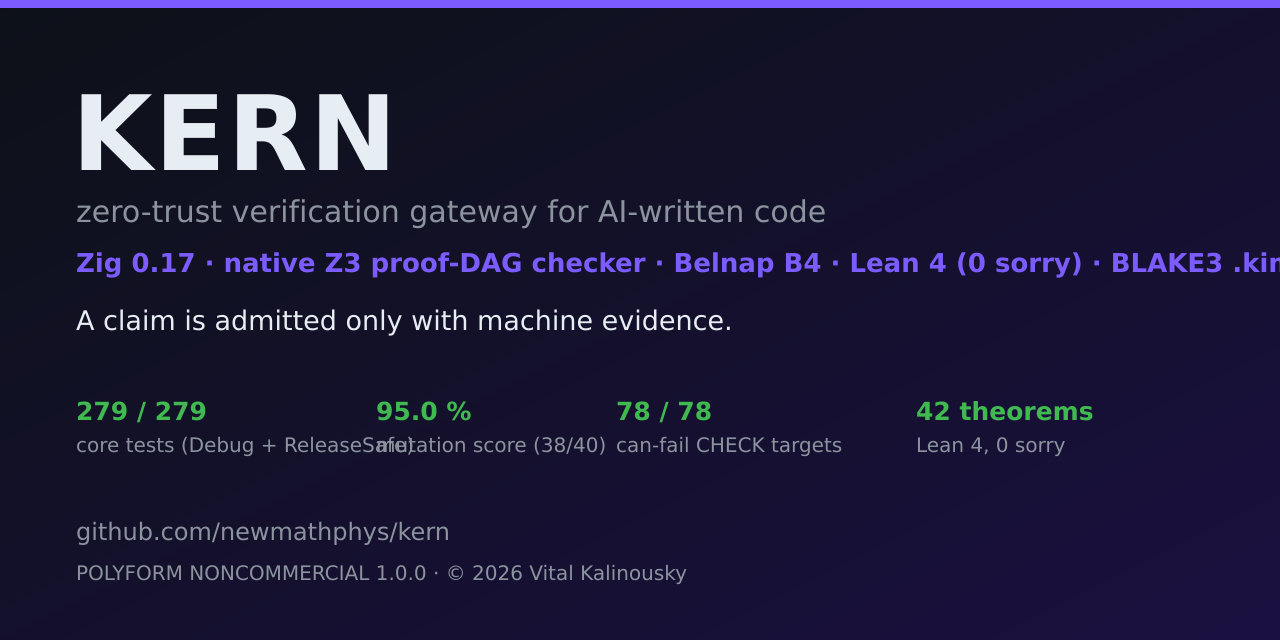
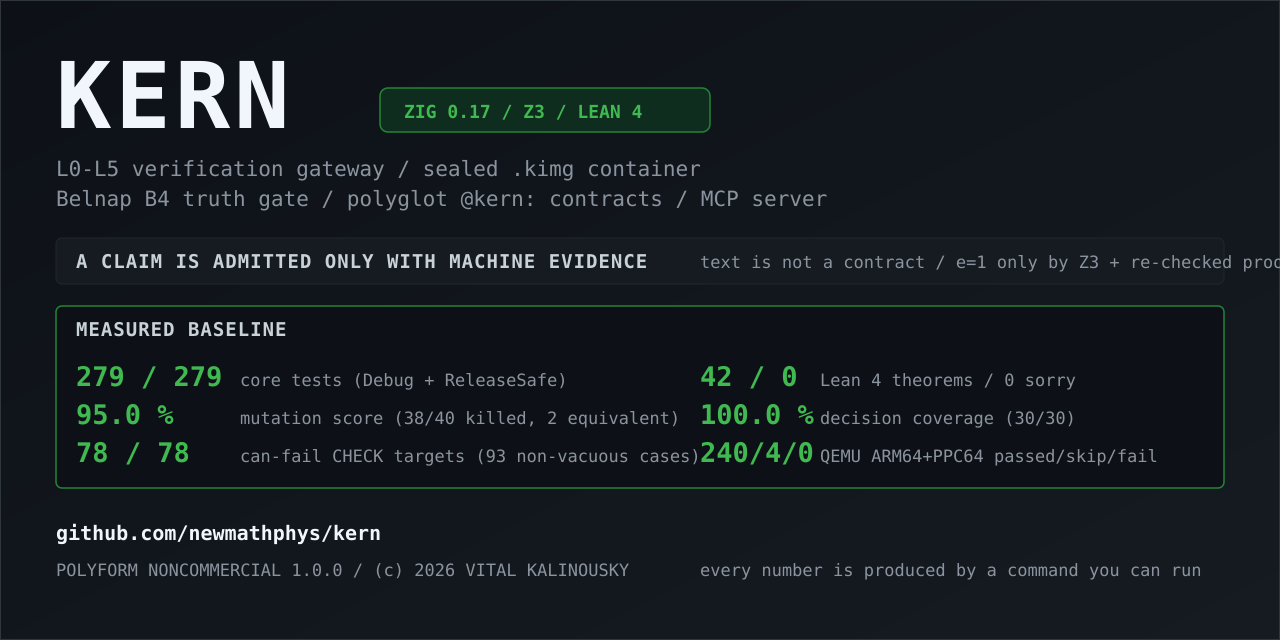
Сайт в стиле нашего SVG-баннера (+ social preview в той же палитре)
Единая визуальная идентичность: лендинг, баннер и карточка соцсетей — одна палитра и
одна типографика (из docs/kern-architecture.svg).

1) docs/index.html переписан в стиле SVG:
   - моно-шрифт везде (ui-monospace, SFMono-Regular, Menlo, Monaco, Consolas);
   - палитра ровно из баннера: фон-градиент #0d1117 -> #161b22, панели #0d1117 с рамкой
     #30363d, внутренние карточки #161b22/#21262d, зелёный акцент #3fb950, тёмно-зелёный
     #238636, зелёный фон #0f2d1e, текст #f0f6fc/#c9d1d9/#8b949e/#6e7681 (лиловый #7c5cff удалён);
   - хедер как в баннере: заголовок KERN, бейдж-пилюля «ZIG 0.17 / Z3 / LEAN 4», подписи sub;
   - ВСТРОЕН наш баннер (docs/kern-architecture.svg) как hero-картинка;
   - таблица чисел заменена на панель «MEASURED BASELINE» в стиле SVG (val зелёный моно + lbl серый);
   - секции-панели: What it is / Quickstart (с проверкой sha256) / Four traps / MCP+CI / Honest status.
2) docs/social-preview.svg перерисован в той же палитре (зелёный акцент, моно-шрифт,
   панель MEASURED BASELINE, пилюля ZIG 0.17 / Z3 / LEAN 4) и пересобран в PNG 1280x640.

SEO/OG/JSON-LD сохранены. Проверено: HTML парсится, палитра SVG присутствует, лиловый удалён,
баннер на месте (svg-check: «ГЕОМЕТРИЯ КОРРЕКТНА, 27 подписей»), аттестат пересобран и валиден,
5 гейтов rc=0.

diff --git a/docs/index.html b/docs/index.html
@@ -4,12 +4,12 @@
 <meta charset="utf-8">
 <meta name="viewport" content="width=device-width, initial-scale=1">
 <title>KERN — zero-trust verification gateway for AI-written code (Zig + Z3 + Lean 4)</title>
-<meta name="description" content="KERN is a zero-trust L0–L5 verification gateway in Zig 0.17: a native Z3 proof-DAG checker, Belnap B4 logic, 42 Lean 4 theorems (0 sorry), 8-lane SIMD BLAKE3 .kimg containers, contract checking for Python/Zig/C/Rust and an MCP server for AI agents.">
+<meta name="description" content="KERN is a zero-trust L0–L5 verification gateway in Zig 0.17: a native Z3 proof-DAG checker, Belnap B4 logic, 42 Lean 4 theorems (0 sorry), 8-lane SIMD BLAKE3 .kimg containers, polyglot contract checking and an MCP server for AI agents.">
 <meta name="keywords" content="formal verification, Z3, SMT, Lean 4, Zig, Belnap logic, AI safety, mutation testing, BLAKE3, proof checker, MCP server, static analysis">
 <link rel="canonical" href="https://newmathphys.github.io/kern/">
 <meta property="og:type" content="website">
 <meta property="og:title" content="KERN — zero-trust verification gateway (Zig + Z3 + Lean 4)">
-<meta property="og:description" content="A claim is admitted only with machine evidence. 279/279 core tests, 95.0% mutation score, 78/78 can-fail targets, 42 Lean 4 theorems (0 sorry).">
+<meta property="og:description" content="A claim is admitted only with machine evidence. 279/279 core tests · 95.0% mutation score · 78/78 can-fail targets · 42 Lean 4 theorems (0 sorry).">
 <meta property="og:url" content="https://newmathphys.github.io/kern/">
 <meta property="og:image" content="https://newmathphys.github.io/kern/social-preview.png">
 <meta name="twitter:card" content="summary_large_image">
@@ -18,9 +18,8 @@
 <meta name="twitter:image" content="https://newmathphys.github.io/kern/social-preview.png">
 <script type="application/ld+json">
 {"@context":"https://schema.org","@type":"SoftwareApplication",
- "name":"KERN","alternateName":"KERN verification gateway",
- "applicationCategory":"DeveloperApplication","operatingSystem":"Linux, macOS",
- "programmingLanguage":["Zig","Python","Lean"],
+ "name":"KERN","applicationCategory":"DeveloperApplication",
+ "operatingSystem":"Linux, macOS","programmingLanguage":["Zig","Python","Lean"],
  "description":"Zero-trust L0-L5 verification gateway: native Z3 proof-DAG checker, Belnap B4 logic, Lean 4 proofs (0 sorry), 8-lane SIMD BLAKE3 .kimg containers, polyglot contract checking and an MCP server.",
  "codeRepository":"https://github.com/newmathphys/kern",
  "license":"https://github.com/newmathphys/kern/blob/main/LICENSE",
@@ -29,54 +28,76 @@
  "author":{"@type":"Person","name":"Vital Kalinousky"}}
 </script>
 <style>
-:root{--bg:#0d1117;--fg:#e6edf3;--mut:#8b949e;--acc:#7c5cff;--ok:#3fb950;--card:#161b22;--br:#30363d}
+/* Palette and typography mirror docs/kern-architecture.svg */
+:root{
+  --bg0:#0d1117; --bg1:#161b22; --card:#161b22; --line:#30363d; --line2:#21262d;
+  --ink:#f0f6fc; --ink2:#c9d1d9; --mut:#8b949e; --dim:#6e7681;
+  --ok:#3fb950; --okdark:#238636; --okbg:#0f2d1e;
+}
 *{box-sizing:border-box}
-body{margin:0;background:var(--bg);color:var(--fg);font:16px/1.6 -apple-system,Segoe UI,Roboto,Helvetica,Arial,sans-serif}
-.wrap{max-width:960px;margin:0 auto;padding:40px 20px}
-h1{font-size:2.1rem;margin:0 0 8px}
-h2{font-size:1.3rem;margin:40px 0 12px;border-bottom:1px solid var(--br);padding-bottom:6px}
-a{color:var(--acc)}
-.tag{color:var(--mut);font-size:1.05rem;margin:0 0 18px}
-.badges img{height:20px;margin:0 6px 6px 0;vertical-align:middle}
-.cta{margin:22px 0}
-.btn{display:inline-block;padding:11px 18px;border-radius:8px;text-decoration:none;font-weight:600;margin:0 8px 8px 0}
-.p{background:var(--acc);color:#fff}
-.s{background:var(--card);color:var(--fg);border:1px solid var(--br)}
-code,pre{font-family:ui-monospace,SFMono-Regular,Menlo,monospace}
-pre{background:var(--card);border:1px solid var(--br);border-radius:8px;padding:14px;overflow-x:auto;font-size:14px}
-table{width:100%;border-collapse:collapse;margin:10px 0}
-th,td{border:1px solid var(--br);padding:8px 10px;text-align:left;font-size:15px}
-th{background:var(--card)}
-.ok{color:var(--ok)}
-ul{padding-left:20px}
-footer{color:var(--mut);border-top:1px solid var(--br);margin-top:48px;padding-top:18px;font-size:14px}
+html{scroll-behavior:smooth}
+body{margin:0;color:var(--ink2);
+  background:linear-gradient(135deg,var(--bg0) 0%,var(--bg1) 100%) fixed;
+  font:400 15px/1.65 ui-monospace,SFMono-Regular,Menlo,Monaco,Consolas,monospace}
+.wrap{max-width:1060px;margin:0 auto;padding:34px 20px 60px}
+a{color:var(--ok);text-decoration:none}
+a:hover{text-decoration:underline}
+h1{font-weight:700;font-size:46px;line-height:1;color:var(--ink);letter-spacing:2.5px;margin:0 0 14px}
+.sub{color:var(--mut);margin:0 0 4px;font-size:14px}
+.pill{display:inline-block;padding:5px 12px;border-radius:6px;background:var(--okbg);
+  border:1px solid var(--okdark);color:var(--ok);font-weight:600;font-size:12px;
+  letter-spacing:.5px;margin:0 0 14px}
+.panel{background:var(--bg0);border:1px solid var(--line);border-radius:6px;padding:20px 22px;margin:22px 0}
+.panel.ok{border-color:var(--okdark)}
+.hdr{font-weight:700;font-size:12.5px;letter-spacing:.8px;color:var(--ink2);
+  text-transform:uppercase;margin:0 0 14px}
+h2{font-weight:700;font-size:13px;text-transform:uppercase;letter-spacing:.9px;
+  color:var(--ink);border-top:1px solid var(--line);padding-top:18px;margin:38px 0 12px}
+.stat{display:grid;grid-template-columns:auto 1fr;gap:4px 16px;align-items:baseline}
+.val{font-weight:700;font-size:17px;color:var(--ok);white-space:nowrap}
+.lbl{color:var(--mut);font-size:14px}
+.cols{display:grid;grid-template-columns:1fr 1fr;gap:0 34px}
+@media(max-width:760px){.cols{grid-template-columns:1fr}h1{font-size:34px}}
+pre{background:var(--bg0);border:1px solid var(--line);border-radius:6px;
+  padding:14px 16px;overflow-x:auto;font-size:13px;margin:12px 0}
+code{font-family:inherit;color:var(--ink)}
+.badgeimg{display:block;width:100%;height:auto;border-radius:6px}
+.btn{display:inline-block;padding:10px 16px;border-radius:6px;font-weight:600;
+  font-size:13.5px;margin:0 8px 8px 0}
+.btn.p{background:var(--okdark);border:1px solid var(--ok);color:var(--ink)}
+.btn.p:hover{background:var(--ok);color:#04170b;text-decoration:none}
+.btn.s{background:var(--card);border:1px solid var(--line);color:var(--ink2)}
+ul{padding-left:20px;margin:10px 0}
+li{margin:6px 0}
+.tag{color:var(--ok);font-weight:700}
+footer{color:var(--dim);border-top:1px solid var(--line);margin-top:46px;padding-top:16px;font-size:13px}
 </style>
 </head>
 <body>
 <div class="wrap">
 
 <h1>KERN</h1>
-<p class="tag">Zero-trust L0–L5 verification gateway for AI-written code — <strong>a claim is admitted only with machine evidence</strong>.</p>
+<span class="pill">ZIG 0.17 / Z3 / LEAN 4</span>
+<p class="sub">L0-L5 verification gateway / sealed .kimg container</p>
+<p class="sub">Belnap B4 truth gate / polyglot <code>@kern:</code> contracts / MCP server</p>
+<p class="sub" style="margin-top:12px"><strong style="color:var(--ink)">A claim is admitted only with machine evidence.</strong></p>
 
-<p class="badges">
-<img alt="core tests 279/279" src="https://img.shields.io/badge/core_tests-279%2F279-brightgreen">
-<img alt="KERN-Next tests 38/38" src="https://img.shields.io/badge/KERN--Next_tests-38%2F38-brightgreen">
-<img alt="Lean 4: 8 files, 42 theorems, 0 sorry" src="https://img.shields.io/badge/Lean_4-8_files_%C2%B7_42_theorems_%C2%B7_0_sorry-blue">
-<img alt="can-fail harness 78/78" src="https://img.shields.io/badge/can--fail_harness-78%2F78-blue">
-<img alt="License: PolyForm Noncommercial 1.0.0" src="https://img.shields.io/badge/License-PolyForm_Noncommercial_1.0.0-orange">
-</p>
-
-<div class="cta">
+<div style="margin:20px 0 6px">
 <a class="btn p" href="https://github.com/newmathphys/kern/releases/latest">Download static binary (v2.4.0)</a>
 <a class="btn s" href="https://github.com/newmathphys/kern#readme">Read the README</a>
 <a class="btn s" href="https://github.com/newmathphys/kern/tree/main/docs">Documentation</a>
 </div>
 
+<div class="panel">
+<img class="badgeimg" src="kern-architecture.svg" width="960" height="290"
+     alt="KERN architecture: Belnap B4 accumulator, L0-L5 engine and truth gate, measured baseline">
+</div>
+
 <h2>What it is</h2>
 <ul>
-<li><strong>A gate, not a linter.</strong> Text is not evidence: a claim becomes <code>e = 1</code> only if Z3 proves it, or if a reproducible execution record backs it.</li>
-<li><strong>Bidirectional distrust of the solver.</strong> Every <code>UNSAT</code> proof DAG is re-checked inside Zig (<code>proof_check.zig</code>), and every <code>SAT</code> counterexample is replayed against the contract before it is reported.</li>
-<li><strong>Polyglot contract checking.</strong> <code>@kern:requires</code> / <code>@kern:ensures</code> annotations are read from <code>.py</code>, <code>.zig</code>, <code>.c</code> and <code>.rs</code> — with machine types, so i32 overflow and division by zero are caught.</li>
+<li><span class="tag">A gate, not a linter.</span> Text is not evidence: a claim becomes <code>e = 1</code> only if Z3 proves it, or if a reproducible execution record backs it.</li>
+<li><span class="tag">Bidirectional distrust of the solver.</span> Every <code>UNSAT</code> proof DAG is re-checked inside Zig (<code>proof_check.zig</code>); every <code>SAT</code> counterexample is replayed against the real function before it is reported.</li>
+<li><span class="tag">Polyglot contracts.</span> <code>@kern:requires</code> / <code>@kern:ensures</code> are read from <code>.py</code>, <code>.zig</code>, <code>.c</code> and <code>.rs</code> — with machine types, so i32 overflow and division by zero are caught.</li>
 </ul>
 
 <h2>Quickstart — and verify what you downloaded</h2>
@@ -87,44 +108,72 @@ sha256sum -c SHA256SUMS          # supply-chain check, no trust required
 chmod +x kernc-x86_64-linux-musl
 
 # 2. Prove a contract with real Z3
-./kernc-x86_64-linux-musl prove formal/example.smt2      # -> e=1 PROVEN / e=0 counterexample
+./kernc-x86_64-linux-musl prove formal/example.smt2   # e=1 PROVEN / e=0 counterexample
 
-# 3. From source: build, test, check contracts, run the formal proofs
+# 3. From source
 git clone https://github.com/newmathphys/kern &amp;&amp; cd kern
-zig build &amp;&amp; zig build test        # 279 core tests
-make contracts                      # polyglot @kern: contracts (Python / Zig / C / Rust)
-./formal/check.sh                   # Lean 4: 8 files, 42 theorems, 0 sorry</pre>
+zig build &amp;&amp; zig build test   # 279 core tests
+make contracts                 # polyglot @kern: contracts (Python / Zig / C / Rust)
+./formal/check.sh              # Lean 4: 8 files, 42 theorems, 0 sorry</pre>
 
 <h2>Measured, not claimed</h2>
-<table>
-<tr><th>Metric</th><th>Result</th><th>How</th></tr>
-<tr><td>Core test suite</td><td class="ok">279 / 279</td><td><code>zig build test</code> (Debug + ReleaseSafe)</td></tr>
-<tr><td>KERN-Next test suite</td><td class="ok">38 / 38</td><td><code>zig build test-next</code></td></tr>
-<tr><td>Mutation score</td><td class="ok">95.0 % (38/40)</td><td><code>make mutate</code> — 2 survivors proven equivalent, over 14 files / 420 sites</td></tr>
-<tr><td>Can-fail harness</td><td class="ok">78 / 78 CHECK targets</td><td><code>make canfail</code> — every check must be proven capable of failing (93 non-vacuous cases, 0 vacuous)</td></tr>
-<tr><td>Lean 4 proofs</td><td class="ok">8 files · 42 theorems · 0 sorry</td><td><code>./formal/check.sh</code></td></tr>
-<tr><td>Cross-architecture</td><td>240 passed / 4 skipped / 0 failed</td><td>QEMU ARM64 + POWERPC64 (big-endian), <code>docs/evidence/cross_arch.log</code>; re-run pending</td></tr>
-<tr><td>Hermetic release binary</td><td class="ok">6 041 776 bytes, sha256 verified</td><td><code>make artifact-check</code> — README == build == release asset</td></tr>
-</table>
+<div class="panel ok">
+  <div class="hdr">MEASURED BASELINE</div>
+  <div class="cols">
+    <div class="stat">
+      <span class="val">279 / 279</span><span class="lbl">core tests (Debug + ReleaseSafe)</span>
+      <span class="val">38 / 38</span><span class="lbl">KERN-Next tests</span>
+      <span class="val">95.0 %</span><span class="lbl">mutation score — 38/40 killed, 2 proven equivalent (14 files / 420 sites)</span>
+      <span class="val">78 / 78</span><span class="lbl">can-fail CHECK targets — 93 non-vacuous cases, 0 vacuous</span>
+    </div>
+    <div class="stat">
+      <span class="val">42 / 0</span><span class="lbl">Lean 4 theorems / 0 sorry (8 files)</span>
+      <span class="val">100.0 %</span><span class="lbl">decision coverage (30/30)</span>
+      <span class="val">240/4/0</span><span class="lbl">QEMU ARM64 + POWERPC64 passed / skipped / failed (re-run pending)</span>
+      <span class="val">6 041 776 B</span><span class="lbl">hermetic release binary, sha256 verified (README == build == asset)</span>
+    </div>
+  </div>
+  <p class="lbl" style="margin:14px 0 0">Every number above is produced by a command you can run yourself — see
+  <a href="https://github.com/newmathphys/kern/blob/main/docs/METRICS.en.md">docs/METRICS.en.md</a> and
+  <a href="https://github.com/newmathphys/kern/tree/main/docs/evidence">docs/evidence/</a>.</p>
+</div>
 
 <h2>Four traps an AI agent falls into — and how KERN refuses them</h2>
+<div class="panel">
 <ul>
-<li><strong>Vacuous precondition</strong> (<code>false ⟹ anything</code>): a contradictory <code>requires</code> would make any broken body "provable" → KERN reports <code>[VACUOUS] precondition is unsatisfiable (empty domain)</code> and keeps the gate closed.</li>
-<li><strong>Weakening the specification</strong>: deleting a failing <code>@kern:ensures</code> is the cheapest cheat → every contract is fingerprinted in <code>docs/contracts.lock.json</code>, and any removal or edit is a hard error (<code>rc = 2</code>).</li>
-<li><strong>Silent behaviour change during refactoring</strong>: no contracts required → KERN checks <code>∃x: f_old(x) ≠ f_new(x)</code> over all of ℤ and prints the exact input where the two versions disagree.</li>
-<li><strong>A counterexample that lives only in a log</strong>: <code>--emit-pytest</code> turns it into a real regression test that fails on the current code, and <code>--sarif</code> / <code>--github-annotations</code> put it on the exact line inside a pull request.</li>
+<li><span class="tag">Vacuous precondition</span> (<code>false ⟹ anything</code>): a contradictory <code>requires</code> would make any broken body "provable" → KERN answers <code>[VACUOUS] precondition is unsatisfiable (empty domain)</code> and keeps the gate closed.</li>
+<li><span class="tag">Weakening the specification</span>: deleting a failing <code>@kern:ensures</code> is the cheapest cheat → every contract is fingerprinted in <code>docs/contracts.lock.json</code>, and any removal or edit is a hard error (<code>rc = 2</code>).</li>
+<li><span class="tag">Silent behaviour change during refactoring</span>: no contracts required → KERN checks <code>∃x: f_old(x) ≠ f_new(x)</code> over all of ℤ and prints the exact input where the two versions disagree.</li>
+<li><span class="tag">A counterexample that lives only in a log</span>: <code>--emit-pytest</code> turns it into a real regression test that fails on the current code, while <code>--sarif</code> / <code>--github-annotations</code> put it on the exact line inside a pull request.</li>
 </ul>
+</div>
 
-<h2>For AI agents (MCP)</h2>
-<p>Five tools are exposed over stdio for Claude Code / Cursor and any MCP client, with 14 live self-checks
-(<code>make mcp-selftest</code>): <code>kern_verify_smt</code>, <code>kern_verify_python</code>,
-<code>kern_check_contracts</code>, <code>kern_prove_contract</code>, <code>kern_check_equivalence</code>.</p>
+<h2>For AI agents (MCP) and CI</h2>
+<div class="panel">
+<p style="margin:0 0 10px">Five tools over stdio for Claude Code / Cursor and any MCP client, with 14 live self-checks
+(<code>make mcp-selftest</code>):
+<code>kern_verify_smt</code> · <code>kern_verify_python</code> · <code>kern_check_contracts</code> ·
+<code>kern_prove_contract</code> · <code>kern_check_equivalence</code>.</p>
+<p class="lbl" style="margin:0">In CI, the reusable Action verifies the downloaded binary against
+<code>SHA256SUMS</code> before running it, and can emit a SARIF 2.1.0 report for GitHub Code Scanning:
+<br><code>uses: newmathphys/kern@v2.4.0</code></p>
+</div>
+
+<h2>Honest status</h2>
+<div class="panel">
+<p class="lbl" style="margin:0">What is <strong>measured</strong>, what is <strong>written but not measured</strong>,
+what is <strong>not implemented</strong> and what is <strong>not verified for real</strong> is listed in
+<a href="https://github.com/newmathphys/kern/blob/main/docs/CAPABILITY_STATUS.en.md">CAPABILITY_STATUS.en.md</a>,
+together with the <strong>74 defects this project found in itself</strong> (#1–#116).
+A check that cannot go red is treated as a defect here, not as coverage.</p>
+</div>
 
 <footer>
-<p><strong>KERN</strong> · © 2026 Vital Kalinousky · Licensed under the PolyForm Noncommercial License 1.0.0
-(commercial use requires a license from the copyright holder).
-This site is served from <code>/docs</code> of the <a href="https://github.com/newmathphys/kern">main repository</a>;
-every number above is produced by a command you can run yourself.</p>
+<p><strong>KERN</strong> · © 2026 Vital Kalinousky · PolyForm Noncommercial License 1.0.0
+(commercial use requires a license from the copyright holder).<br>
+This page is served from <code>/docs</code> of the
+<a href="https://github.com/newmathphys/kern">main repository</a>; the banner above is
+<code>docs/kern-architecture.svg</code> — the same file the README uses.</p>
 </footer>
 
 </div>
